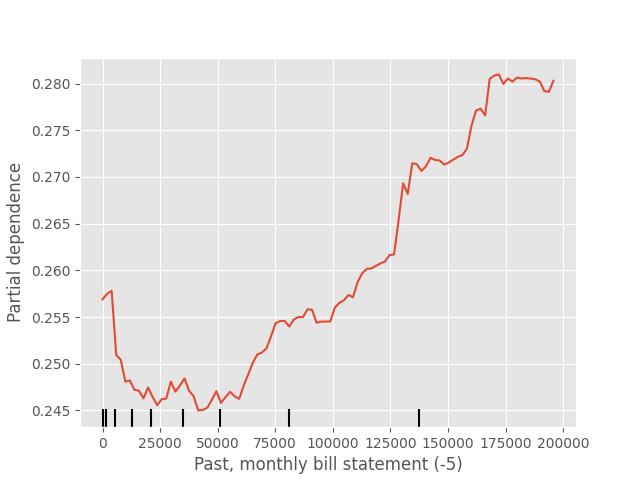
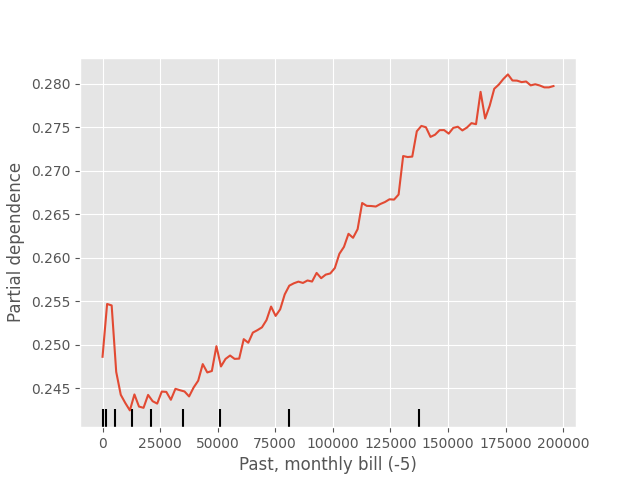
SHAP improvements
Improved explanations given by SHAP.
Only one graph missing, force.

diff --git a/results/explanations/default_credit/lime_explanation.html b/results/explanations/default_credit/lime_explanation.html
@@ -37089,10 +37089,10 @@
 /***/ })
 /******/ ]);
 //# sourceMappingURL=bundle.js.map </script></head><body>
-        <div class="lime top_div" id="top_divCC98DX98GSTVQPB"></div>
+        <div class="lime top_div" id="top_div506MXOKR68QEEFC"></div>
         
         <script>
-        var top_div = d3.select('#top_divCC98DX98GSTVQPB').classed('lime top_div', true);
+        var top_div = d3.select('#top_div506MXOKR68QEEFC').classed('lime top_div', true);
         
             var pp_div = top_div.append('div')
                                 .classed('lime predict_proba', true);
@@ -37104,10 +37104,10 @@
             var exp = new lime.Explanation(["0", "1"]);
         
                 exp_div = top_div.append('div').classed('lime explanation', true);
-                exp.show([["Given credit (NT Dollars)", -0.04239111798099143], ["Amount of previous payment in NT Dollars (-6)", -0.03833212776133857], ["Past, monthly bill statement (-2)", -0.03255742630000924], ["Amount of previous payment in NT Dollars (-5)", -0.02817248278924613], ["Past, monthly bill statement (-6)", 0.02514975153549694], ["Past, monthly bill statement (-3)", 0.022827388710398404], ["Past, monthly bill statement (-1)", 0.021249914888808216], ["Past, monthly payment (-3)", -0.018502221546156876], ["Amount of previous payment in NT Dollars (-4)", -0.01732173370926096], ["Past, monthly payment (-6)", 0.017220847076803783], ["Past, monthly payment (-4)", 0.017176485152261257], ["Amount of previous payment in NT Dollars (-3)", -0.011794336863414714], ["Gender", -0.008811449960829916], ["Past, monthly payment (-1)", 0.007573826919508276], ["Amount of previous payment in NT Dollars (-1)", -0.005562170574290121], ["Amount of previous payment in NT Dollars (-2)", -0.0046316051369615216], ["Past, monthly payment (-5)", 0.004621422222145166], ["Past, monthly payment (-2)", 0.003521968151272744], ["Marital status", 0.0030761141298733673], ["Past, monthly bill statement (-5)", -0.0029860546111242807], ["Past, monthly bill statement (-4)", -0.0026748927122966647], ["Education", 0.0025098640290038203], ["Age", 0.0016511573362447394]], 1, exp_div);
+                exp.show([["Prev. payment in NT$ (-6)", -0.043436456847925374], ["Given credit (NT$)", -0.04144628163555376], ["Past, monthly bill (-2)", -0.034023214376611315], ["Prev. payment in NT$ (-5)", -0.02917923519447107], ["Past, monthly bill (-1)", 0.028669651263396947], ["Past, monthly bill (-6)", 0.02517707597025436], ["Past, monthly bill (-3)", 0.024405137144063182], ["Past, monthly payment (-6)", 0.01989198296958298], ["Prev. payment in NT$ (-4)", -0.015630375792334308], ["Past, monthly payment (-3)", -0.01512307874356296], ["Prev. payment in NT$ (-2)", -0.011830975260314812], ["Past, monthly payment (-4)", 0.011591437129801463], ["Prev. payment in NT$ (-3)", -0.011491374713323644], ["Past, monthly payment (-1)", 0.00722140100237977], ["Past, monthly payment (-5)", 0.005716978385804902], ["Gender", -0.004272329014588634], ["Education", -0.0041149296787177745], ["Marital status", 0.003519710593311877], ["Past, monthly bill (-4)", -0.002808725938083066], ["Past, monthly bill (-5)", -0.0014003727131175923], ["Past, monthly payment (-2)", 0.0012843057844997023], ["Prev. payment in NT$ (-1)", -0.0011167639249461455], ["Age", 0.00049474855794208]], 1, exp_div);
                 
         var raw_div = top_div.append('div');
-            exp.show_raw_tabular([["Given credit (NT Dollars)", "100000.00", -0.04239111798099143], ["Amount of previous payment in NT Dollars (-6)", "5000.00", -0.03833212776133857], ["Past, monthly bill statement (-2)", "18774.00", -0.03255742630000924], ["Amount of previous payment in NT Dollars (-5)", "2000.00", -0.02817248278924613], ["Past, monthly bill statement (-6)", "98430.00", 0.02514975153549694], ["Past, monthly bill statement (-3)", "17758.00", 0.022827388710398404], ["Past, monthly bill statement (-1)", "20272.00", 0.021249914888808216], ["Past, monthly payment (-3)", "0.00", -0.018502221546156876], ["Amount of previous payment in NT Dollars (-4)", "2000.00", -0.01732173370926096], ["Past, monthly payment (-6)", "0.00", 0.017220847076803783], ["Past, monthly payment (-4)", "0.00", 0.017176485152261257], ["Amount of previous payment in NT Dollars (-3)", "2000.00", -0.011794336863414714], ["Gender", "1.00", -0.008811449960829916], ["Past, monthly payment (-1)", "0.00", 0.007573826919508276], ["Amount of previous payment in NT Dollars (-1)", "2000.00", -0.005562170574290121], ["Amount of previous payment in NT Dollars (-2)", "2000.00", -0.0046316051369615216], ["Past, monthly payment (-5)", "0.00", 0.004621422222145166], ["Past, monthly payment (-2)", "0.00", 0.003521968151272744], ["Marital status", "1.00", 0.0030761141298733673], ["Past, monthly bill statement (-5)", "99998.00", -0.0029860546111242807], ["Past, monthly bill statement (-4)", "16138.00", -0.0026748927122966647], ["Education", "2.00", 0.0025098640290038203], ["Age", "42.00", 0.0016511573362447394]], 1, raw_div);
+            exp.show_raw_tabular([["Prev. payment in NT$ (-6)", "5000.00", -0.043436456847925374], ["Given credit (NT$)", "100000.00", -0.04144628163555376], ["Past, monthly bill (-2)", "18774.00", -0.034023214376611315], ["Prev. payment in NT$ (-5)", "2000.00", -0.02917923519447107], ["Past, monthly bill (-1)", "20272.00", 0.028669651263396947], ["Past, monthly bill (-6)", "98430.00", 0.02517707597025436], ["Past, monthly bill (-3)", "17758.00", 0.024405137144063182], ["Past, monthly payment (-6)", "0.00", 0.01989198296958298], ["Prev. payment in NT$ (-4)", "2000.00", -0.015630375792334308], ["Past, monthly payment (-3)", "0.00", -0.01512307874356296], ["Prev. payment in NT$ (-2)", "2000.00", -0.011830975260314812], ["Past, monthly payment (-4)", "0.00", 0.011591437129801463], ["Prev. payment in NT$ (-3)", "2000.00", -0.011491374713323644], ["Past, monthly payment (-1)", "0.00", 0.00722140100237977], ["Past, monthly payment (-5)", "0.00", 0.005716978385804902], ["Gender", "1.00", -0.004272329014588634], ["Education", "2.00", -0.0041149296787177745], ["Marital status", "1.00", 0.003519710593311877], ["Past, monthly bill (-4)", "16138.00", -0.002808725938083066], ["Past, monthly bill (-5)", "99998.00", -0.0014003727131175923], ["Past, monthly payment (-2)", "0.00", 0.0012843057844997023], ["Prev. payment in NT$ (-1)", "2000.00", -0.0011167639249461455], ["Age", "42.00", 0.00049474855794208]], 1, raw_div);
         
         </script>
         </body></html>

diff --git a/results/explanations/heloc/lime_explanation.html b/results/explanations/heloc/lime_explanation.html
@@ -37089,10 +37089,10 @@
 /***/ })
 /******/ ]);
 //# sourceMappingURL=bundle.js.map </script></head><body>
-        <div class="lime top_div" id="top_div0I4ETSE98NWLWEF"></div>
+        <div class="lime top_div" id="top_divT6K7KQ0COOABB3T"></div>
         
         <script>
-        var top_div = d3.select('#top_div0I4ETSE98NWLWEF').classed('lime top_div', true);
+        var top_div = d3.select('#top_divT6K7KQ0COOABB3T').classed('lime top_div', true);
         
             var pp_div = top_div.append('div')
                                 .classed('lime predict_proba', true);
@@ -37104,10 +37104,10 @@
             var exp = new lime.Explanation(["0", "1"]);
         
                 exp_div = top_div.append('div').classed('lime explanation', true);
-                exp.show([["NumTrades90Ever2DerogPubRec", -0.07435778365973775], ["AverageMInFile", -0.05294604801799911], ["NumInqLast6Mexcl7days", 0.050409722771593266], ["MSinceMostRecentInqexcl7days", 0.047574936327046576], ["NumBank2NatlTradesWHighUtilization", -0.03241337035812512], ["MSinceMostRecentTradeOpen", -0.03139091053496398], ["MSinceMostRecentDelq", -0.030869445342723522], ["NumInqLast6M", -0.025392920270792877], ["NumRevolvingTradesWBalance", -0.02039530117782977], ["NumTradesOpeninLast12M", 0.01676336552909749], ["RiskPerformance", -0.015041480692420735], ["NetFractionRevolvingBurden", 0.013503676201896452], ["NetFractionInstallBurden", 0.013182493078469377], ["PercentInstallTrades", -0.012922204883569635], ["NumSatisfactoryTrades", 0.010917604098867963], ["PercentTradesNeverDelq", -0.01075358236095879], ["NumInstallTradesWBalance", 0.0060967911650695], ["NumTotalTrades", -0.00497618031112499], ["ExternalRiskEstimate", 0.0047307377896567354], ["MaxDelqEver", 0.003936333954309568], ["MSinceOldestTradeOpen", -0.0017545130270868407], ["NumTrades60Ever2DerogPubRec", 0.0006634036864032675], ["MaxDelq2PublicRecLast12M", 0.0006569660071099536]], 1, exp_div);
+                exp.show([["NumTrades90Ever2DerogPubRec", -0.07886081194837814], ["AverageMInFile", -0.06267845309226815], ["NumInqLast6Mexcl7days", 0.04216669708226629], ["MSinceMostRecentInqexcl7days", 0.041761470959521436], ["MSinceMostRecentDelq", -0.03428601445283343], ["MSinceMostRecentTradeOpen", -0.029426944459185724], ["NumInqLast6M", -0.025533777742861963], ["NumBank2NatlTradesWHighUtilization", -0.023029125884969397], ["RiskPerformance", -0.02016217873827376], ["NumTradesOpeninLast12M", 0.016647350514182636], ["NumSatisfactoryTrades", 0.015761231336402528], ["NetFractionRevolvingBurden", 0.014596691987688185], ["NetFractionInstallBurden", 0.01210793521483688], ["NumRevolvingTradesWBalance", -0.012024178287958138], ["MaxDelqEver", 0.010872386061976444], ["NumInstallTradesWBalance", 0.009156213756172397], ["PercentInstallTrades", -0.008966000714868817], ["NumTrades60Ever2DerogPubRec", 0.007655717963879951], ["PercentTradesNeverDelq", -0.007567732033126253], ["NumTotalTrades", -0.004653999175505874], ["ExternalRiskEstimate", 0.004156135291426683], ["MSinceOldestTradeOpen", 0.003965126387537749], ["MaxDelq2PublicRecLast12M", -0.001610353734142783]], 1, exp_div);
                 
         var raw_div = top_div.append('div');
-            exp.show_raw_tabular([["NumTrades90Ever2DerogPubRec", "100.00", -0.07435778365973775], ["AverageMInFile", "8.00", -0.05294604801799911], ["NumInqLast6Mexcl7days", "19.00", 0.050409722771593266], ["MSinceMostRecentInqexcl7days", "0.00", 0.047574936327046576], ["NumBank2NatlTradesWHighUtilization", "60.00", -0.03241337035812512], ["MSinceMostRecentTradeOpen", "110.00", -0.03139091053496398], ["MSinceMostRecentDelq", "7.00", -0.030869445342723522], ["NumInqLast6M", "0.00", -0.025392920270792877], ["NumRevolvingTradesWBalance", "1.00", -0.02039530117782977], ["NumTradesOpeninLast12M", "50.00", 0.01676336552909749], ["RiskPerformance", "87.00", -0.015041480692420735], ["NetFractionRevolvingBurden", "-8.00", 0.013503676201896452], ["NetFractionInstallBurden", "2.00", 0.013182493078469377], ["PercentInstallTrades", "18.00", -0.012922204883569635], ["NumSatisfactoryTrades", "0.00", 0.010917604098867963], ["PercentTradesNeverDelq", "-7.00", -0.01075358236095879], ["NumInstallTradesWBalance", "0.00", 0.0060967911650695], ["NumTotalTrades", "0.00", -0.00497618031112499], ["ExternalRiskEstimate", "210.00", 0.0047307377896567354], ["MaxDelqEver", "10.00", 0.003936333954309568], ["MSinceOldestTradeOpen", "19.00", -0.0017545130270868407], ["NumTrades60Ever2DerogPubRec", "0.00", 0.0006634036864032675], ["MaxDelq2PublicRecLast12M", "8.00", 0.0006569660071099536]], 1, raw_div);
+            exp.show_raw_tabular([["NumTrades90Ever2DerogPubRec", "100.00", -0.07886081194837814], ["AverageMInFile", "8.00", -0.06267845309226815], ["NumInqLast6Mexcl7days", "19.00", 0.04216669708226629], ["MSinceMostRecentInqexcl7days", "0.00", 0.041761470959521436], ["MSinceMostRecentDelq", "7.00", -0.03428601445283343], ["MSinceMostRecentTradeOpen", "110.00", -0.029426944459185724], ["NumInqLast6M", "0.00", -0.025533777742861963], ["NumBank2NatlTradesWHighUtilization", "60.00", -0.023029125884969397], ["RiskPerformance", "87.00", -0.02016217873827376], ["NumTradesOpeninLast12M", "50.00", 0.016647350514182636], ["NumSatisfactoryTrades", "0.00", 0.015761231336402528], ["NetFractionRevolvingBurden", "-8.00", 0.014596691987688185], ["NetFractionInstallBurden", "2.00", 0.01210793521483688], ["NumRevolvingTradesWBalance", "1.00", -0.012024178287958138], ["MaxDelqEver", "10.00", 0.010872386061976444], ["NumInstallTradesWBalance", "0.00", 0.009156213756172397], ["PercentInstallTrades", "18.00", -0.008966000714868817], ["NumTrades60Ever2DerogPubRec", "0.00", 0.007655717963879951], ["PercentTradesNeverDelq", "-7.00", -0.007567732033126253], ["NumTotalTrades", "0.00", -0.004653999175505874], ["ExternalRiskEstimate", "210.00", 0.004156135291426683], ["MSinceOldestTradeOpen", "19.00", 0.003965126387537749], ["MaxDelq2PublicRecLast12M", "8.00", -0.001610353734142783]], 1, raw_div);
         
         </script>
         </body></html>

diff --git a/results/explanations/german_credit/lime_explanation.html b/results/explanations/german_credit/lime_explanation.html
@@ -37089,10 +37089,10 @@
 /***/ })
 /******/ ]);
 //# sourceMappingURL=bundle.js.map </script></head><body>
-        <div class="lime top_div" id="top_divWB14AGVEYRE4JV7"></div>
+        <div class="lime top_div" id="top_divU6U1XHRZ4IMOO5L"></div>
         
         <script>
-        var top_div = d3.select('#top_divWB14AGVEYRE4JV7').classed('lime top_div', true);
+        var top_div = d3.select('#top_divU6U1XHRZ4IMOO5L').classed('lime top_div', true);
         
             var pp_div = top_div.append('div')
                                 .classed('lime predict_proba', true);
@@ -37104,10 +37104,10 @@
             var exp = new lime.Explanation(["0", "1"]);
         
                 exp_div = top_div.append('div').classed('lime explanation', true);
-                exp.show([["personal_status", -0.07289057336639158], ["foreign_worker", -0.028809887367094996], ["debtors", -0.01418816974364254], ["installment_rate", -0.013063279046090188], ["amount", 0.007593541666243059], ["duration", -0.0061603105085189505], ["cost_matrix_1", 0.005154194144035522], ["purpose", -0.004672802938709678], ["status", 0.0035681179889608303], ["cost_matrix_2", 0.003396891685946922], ["telephone", 0.0033225291460634563], ["risk", 0.003002040792033103], ["residence_since", -0.0023378100375228954], ["property", 0.0023162377729970818], ["age", -0.0022454579619533063], ["liable_to_maintenance", 0.0015056672402938725], ["installment_plans", -0.0014110295995229936], ["employment_since", 0.0012938764757402389], ["savings", -0.0010342266361527777], ["credits_bank", 0.0007981913051199882], ["history", 0.00046733296529458053], ["job", 0.00022469506099242342], ["housing", 0.0001554858644200388], ["cost_matrix_3", -0.00012618266666432066]], 1, exp_div);
+                exp.show([["personal_status", -0.07116496784002843], ["foreign_worker", -0.03172675679143428], ["installment_rate", -0.025657669117942476], ["debtors", -0.009902785801498889], ["status", 0.007536515899941827], ["residence_since", -0.007418609131402078], ["credits_bank", 0.006666371436960433], ["amount", 0.006551284751676816], ["purpose", -0.006080071625625376], ["liable_to_maintenance", -0.004768426366487973], ["cost_matrix_3", 0.004644031405908296], ["duration", -0.004038306499253052], ["property", -0.0026223909811641326], ["employment_since", 0.002315203283446702], ["job", 0.002248244918125302], ["cost_matrix_1", -0.001899626877304091], ["risk", -0.0018373976787794861], ["age", -0.0013340249957822026], ["history", -0.0012310143585429006], ["savings", 0.0010495698651579442], ["telephone", -0.0009265552411949505], ["cost_matrix_2", -0.0008857089992009014], ["housing", 0.0006325721916010678], ["installment_plans", 0.00010206281685222409]], 1, exp_div);
                 
         var raw_div = top_div.append('div');
-            exp.show_raw_tabular([["personal_status", "3.00", -0.07289057336639158], ["foreign_worker", "0.00", -0.028809887367094996], ["debtors", "27.00", -0.01418816974364254], ["installment_rate", "1.00", -0.013063279046090188], ["amount", "2.00", 0.007593541666243059], ["duration", "12.00", -0.0061603105085189505], ["cost_matrix_1", "0.00", 0.005154194144035522], ["purpose", "20.00", -0.004672802938709678], ["status", "2.00", 0.0035681179889608303], ["cost_matrix_2", "1.00", 0.003396891685946922], ["telephone", "0.00", 0.0033225291460634563], ["risk", "0.00", 0.003002040792033103], ["residence_since", "3.00", -0.0023378100375228954], ["property", "1.00", 0.0023162377729970818], ["age", "1.00", -0.0022454579619533063], ["liable_to_maintenance", "1.00", 0.0015056672402938725], ["installment_plans", "1.00", -0.0014110295995229936], ["employment_since", "3.00", 0.0012938764757402389], ["savings", "2.00", -0.0010342266361527777], ["credits_bank", "1.00", 0.0007981913051199882], ["history", "4.00", 0.00046733296529458053], ["job", "0.00", 0.00022469506099242342], ["housing", "1.00", 0.0001554858644200388], ["cost_matrix_3", "1.00", -0.00012618266666432066]], 1, raw_div);
+            exp.show_raw_tabular([["personal_status", "3.00", -0.07116496784002843], ["foreign_worker", "0.00", -0.03172675679143428], ["installment_rate", "1.00", -0.025657669117942476], ["debtors", "27.00", -0.009902785801498889], ["status", "2.00", 0.007536515899941827], ["residence_since", "3.00", -0.007418609131402078], ["credits_bank", "1.00", 0.006666371436960433], ["amount", "2.00", 0.006551284751676816], ["purpose", "20.00", -0.006080071625625376], ["liable_to_maintenance", "1.00", -0.004768426366487973], ["cost_matrix_3", "1.00", 0.004644031405908296], ["duration", "12.00", -0.004038306499253052], ["property", "1.00", -0.0026223909811641326], ["employment_since", "3.00", 0.002315203283446702], ["job", "0.00", 0.002248244918125302], ["cost_matrix_1", "0.00", -0.001899626877304091], ["risk", "0.00", -0.0018373976787794861], ["age", "1.00", -0.0013340249957822026], ["history", "4.00", -0.0012310143585429006], ["savings", "2.00", 0.0010495698651579442], ["telephone", "0.00", -0.0009265552411949505], ["cost_matrix_2", "1.00", -0.0008857089992009014], ["housing", "1.00", 0.0006325721916010678], ["installment_plans", "1.00", 0.00010206281685222409]], 1, raw_div);
         
         </script>
         </body></html>

diff --git a/main.py b/main.py
@@ -31,9 +31,9 @@ default_credit_cat_cols_num = [2, 3, 4]
 default_credit_num_cols_num = [5, 6, 7, 8, 9, 10, 11, 12, 13, 14, 15, 16, 17, 18, 19, 20, 21, 22, 23, 24]
 default_credit_index = [1,2,3,4,5,6,7,8,9,10,11,12,13,14,15,16,17,18,19,20,21,22, 23]
 
-default_credit_no_target = ["X1","X2","X3","X4","X5","X6", "X7", "test", "test", "test", "X11", "X12", "X13", "X14", "X15", "X16", "X17","X18", "X19", "X20", "X21", "X22", "X23"]
+#default_credit_no_target = ["X1","X2","X3","X4","X5","X6", "X7", "test", "test", "test", "X11", "X12", "X13", "X14", "X15", "X16", "X17","X18", "X19", "X20", "X21", "X22", "X23"]
 #default_credit_with_target = ["X1","X2","X3","X4","X5","X6", "X7", "X8", "X9", "X10", "X11", "X12", "X13", "X14", "X15", "X16", "X17","X18", "X19", "X20", "X21", "X22", "X23", "Y"]
-default_credit_with_target = ["Given credit (NT Dollars)",
+default_credit_no_target = ["Given credit (NT$)",
                               "Gender",
                               "Education",
                               "Marital status",
@@ -44,18 +44,41 @@ default_credit_with_target = ["Given credit (NT Dollars)",
                               "Past, monthly payment (-3)",
                               "Past, monthly payment (-2)",
                               "Past, monthly payment (-1)",
-                              "Past, monthly bill statement (-6)",
-                              "Past, monthly bill statement (-5)",
-                              "Past, monthly bill statement (-4)",
-                              "Past, monthly bill statement (-3)",
-                              "Past, monthly bill statement (-2)",
-                              "Past, monthly bill statement (-1)",
-                              "Amount of previous payment in NT Dollars (-6)",
-                              "Amount of previous payment in NT Dollars (-5)",
-                              "Amount of previous payment in NT Dollars (-4)",
-                              "Amount of previous payment in NT Dollars (-3)",
-                              "Amount of previous payment in NT Dollars (-2)",
-                              "Amount of previous payment in NT Dollars (-1)",
+                              "Past, monthly bill (-6)",
+                              "Past, monthly bill (-5)",
+                              "Past, monthly bill (-4)",
+                              "Past, monthly bill (-3)",
+                              "Past, monthly bill (-2)",
+                              "Past, monthly bill (-1)",
+                              "Prev. payment in NT$ (-6)",
+                              "Prev. payment in NT$ (-5)",
+                              "Prev. payment in NT$ (-4)",
+                              "Prev. payment in NT$ (-3)",
+                              "Prev. payment in NT$ (-2)",
+                              "Prev. payment in NT$ (-1)"]
+default_credit_with_target = ["Given credit (NT$)",
+                              "Gender",
+                              "Education",
+                              "Marital status",
+                              "Age",
+                              "Past, monthly payment (-6)",
+                              "Past, monthly payment (-5)",
+                              "Past, monthly payment (-4)",
+                              "Past, monthly payment (-3)",
+                              "Past, monthly payment (-2)",
+                              "Past, monthly payment (-1)",
+                              "Past, monthly bill (-6)",
+                              "Past, monthly bill (-5)",
+                              "Past, monthly bill (-4)",
+                              "Past, monthly bill (-3)",
+                              "Past, monthly bill (-2)",
+                              "Past, monthly bill (-1)",
+                              "Prev. payment in NT$ (-6)",
+                              "Prev. payment in NT$ (-5)",
+                              "Prev. payment in NT$ (-4)",
+                              "Prev. payment in NT$ (-3)",
+                              "Prev. payment in NT$ (-2)",
+                              "Prev. payment in NT$ (-1)",
                               "Y"]
 
 # Defining categorical and numerical columns for German Credit
@@ -89,13 +112,15 @@ xgb_final = xgboost.XGBClassifier(tree_method='hist',
                                   random_state=42)
 
 random_forest_classifier = sklearn.ensemble.RandomForestClassifier(n_estimators=50, n_jobs=5)
+
+#INICIO TESTE DATASET 1
 # Default Credit - Data preparation and split into train/test
 x_train, x_test, y_train, y_test = af.data_prep_sep_target(default_credit, "default_credit.txt", "Y", replacer=[0, 1])
 xgb_final.fit(x_train, y_train)
 af.model_evaluation(xgb_final, "Train", x_train, y_train, "default_credit_xgboost_train.txt")
 af.model_evaluation(xgb_final, "Test", x_test, y_test, "default_credit_xgboost_test.txt")
 
-exp.shap_explainer(xgb_final, x_train, default_credit.columns, "default_credit")
+exp.shap_explainer(xgb_final, x_train, default_credit_no_target, "default_credit")
 exp.lime_explainer(xgb_final, x_train, x_test, default_credit.columns, [0, 1], "default_credit")
 #train, test = af.data_prep(default_credit)
 #default_credit_anchors = anchor.utils.load_csv_dataset(default_credit)
@@ -108,6 +133,7 @@ for x in range(len(x_train[0])):
     #pdp = exp.pdp_explainer(random_forest_classifier, x_train, [x], [default_credit_with_target[x]], "default_credit")
     pdp = exp.pdp_explainer(random_forest_classifier, x_train, [x], default_credit_with_target, "default_credit")
 
+#FIM TESTE DATASET 1
 #pdp = exp.pdp_explainer(random_forest_classifier, x_train, [9], default_credit_no_target, "default_credit")
 
 # German Credit - Data preparation and split into train/test

diff --git a/explainers.py b/explainers.py
@@ -1,5 +1,4 @@
 import lime
-import matplotlib as plt
 import numpy as np
 import pandas as pd
 import shap
@@ -78,16 +77,25 @@ def pdp_explainer(model, x_axis, features, feature_names, dataset_name):
 # idx - integer referring to the preferred instance for generation of explanation
 def permuteattack_explainer(model, feature_names, x_train, x_test, dataset_name, idx=0):
     permute_attack = permute.GAdvExample(feature_names=list(feature_names),
-                             sol_per_pop=30, num_parents_mating=10, cat_vars_ohe=None,
-                             num_generations=100, n_runs=10, black_list=[],
+                             sol_per_pop=30, num_parents_mating=15, cat_vars_ohe=None,
+                             num_generations=200, n_runs=10, black_list=None,
                              verbose=False, beta=.95)
 
     x_all, x_changes, x_sucess = permute_attack.attack(model, x=x_test[idx, :], x_train=x_train)
     print("X_ALL \n", x_all, "\n", "X_CHANGES", "\n", x_changes, "\n", "X_SUCCESS", "\n", x_sucess)
-    af.save_to_file_2("results/explanations/" + dataset_name + "/all_permuteattack_explanation.txt", pd.DataFrame(x_all).values)
-    af.save_to_file_2("results/explanations/" + dataset_name + "/changes_permuteattack_explanation.txt", pd.DataFrame(x_changes).values)
-    af.save_to_file_2("results/explanations/" + dataset_name + "/success_permuteattack_explanation.txt", pd.DataFrame(x_sucess).values)
-
+    print("permute_attack.results ", permute_attack.results)
+    #af.save_to_file_2("results/explanations/" + dataset_name + "/results_permuteattack_explanation.txt", pd.DataFrame(permute_attack.results).values)
+    permute_tmp = []
+    permute_tmp.append("x_all \n")
+    permute_tmp.append(pd.DataFrame(x_all).values)
+    permute_tmp.append("\n x_changes \n")
+    permute_tmp.append(pd.DataFrame(x_changes).values)
+    permute_tmp.append("\n x_success \n")
+    permute_tmp.append(pd.DataFrame(x_sucess).values)
+    #af.save_to_file_2("results/explanations/" + dataset_name + "/all_permuteattack_explanation.txt", pd.DataFrame(x_all).values)
+    #af.save_to_file_2("results/explanations/" + dataset_name + "/changes_permuteattack_explanation.txt", pd.DataFrame(x_changes).values)
+    #af.save_to_file_2("results/explanations/" + dataset_name + "/success_permuteattack_explanation.txt", pd.DataFrame(x_sucess).values)
+    af.save_to_file_2("results/explanations/" + dataset_name + "/success_permuteattack_explanation.txt", permute_tmp)
 
 '''
  Main method for SHAP/LIME explanations which aims to englobe the initialization of such methods, un-cluttering main.py
@@ -110,14 +118,37 @@ def lime_explainer(model, x_train, x_test, feature_labels, target_label, dataset
     exp.save_to_file("results/explanations/" + dataset_name + "/lime_explanation.html")
 
 # SHAP explanation framework, takes four parameters as np.array and the black-box model
-def shap_explainer(model, x, feature_names, dataset_name ):
+def shap_explainer(model, x, feature_names, dataset_name):
     shap.initjs()
-    explainer = shap.TreeExplainer(model)
-    shap_values = explainer.shap_values(x)
-    shap_interactions = explainer.shap_interaction_values(x)
+    data = pd.DataFrame(x, columns=feature_names)
+    explainer = shap.Explainer(model)
+    explainer_tree = shap.TreeExplainer(model)
+    shap_values_explainer = explainer(data)
+    shap_values = explainer_tree.shap_values(data)
 
-    shap.force_plot(explainer.expected_value, shap_values[0, :], x[0, :])
-    fig = shap.summary_plot(shap_values, x, feature_names=feature_names, plot_type="bar", show=False)
-    plt.pyplot.savefig("results/explanations/"+dataset_name+"/shap_explanation.png")
-    fig = shap.summary_plot(shap_interactions, x,  feature_names=feature_names, show=False)
-    plt.pyplot.savefig("results/explanations/"+dataset_name+"/shap_explanation_2.png")
+    fig = shap.plots.waterfall(shap_values_explainer[0], show=False)
+    plt.pyplot.savefig("results/explanations/"+dataset_name+"/shap_waterfall.png", bbox_inches="tight")
+    plt.pyplot.clf()
+    #fig = shap.force_plot(explainer_tree.expected_value, shap_values[0, :], x[0, :])
+    #plt.pyplot.savefig("results/explanations/"+dataset_name+"/shap_force_plot.png")
+    #plt.pyplot.clf()
+    #fig = shap.summary_plot(shap_values, data, feature_names=feature_names, plot_type="bar", show=False)
+    fig = shap.summary_plot(shap_values, data, plot_type="bar", show=False)
+    plt.pyplot.savefig("results/explanations/"+dataset_name+"/shap_explanation.png", bbox_inches="tight")
+    plt.pyplot.clf()
+
+    #Feature interactions is not useful...
+    #fig = shap.summary_plot(shap_interactions, data, show=False)
+    for feat in feature_names:
+        fig = shap.plots.scatter(shap_values_explainer[:, feat], show=False)
+        plt.pyplot.savefig("results/explanations/"+dataset_name+"/shap_scatter_"+feat+".png", bbox_inches="tight")
+        plt.pyplot.clf()
+
+    fig = shap.plots.force(explainer_tree.expected_value, shap_values[0], data.iloc[0,:], show=False)
+    plt.pyplot.savefig("results/explanations/"+dataset_name+"/shap_force.png")
+    plt.pyplot.clf()
+    fig = shap.plots.bar(shap_values_explainer[0], show=False)
+    plt.pyplot.savefig("results/explanations/"+dataset_name+"/shap_barplot.png", bbox_inches="tight")
+    plt.pyplot.clf()
+
+
